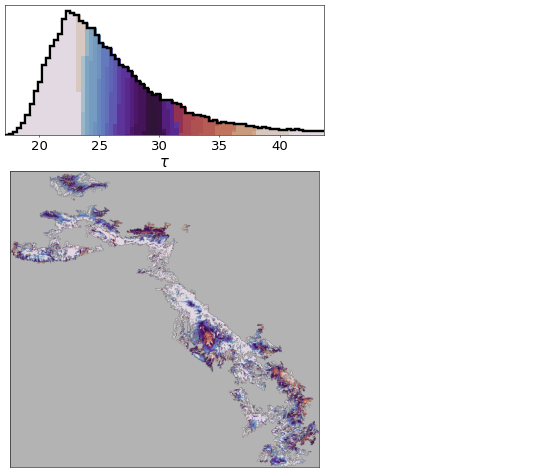
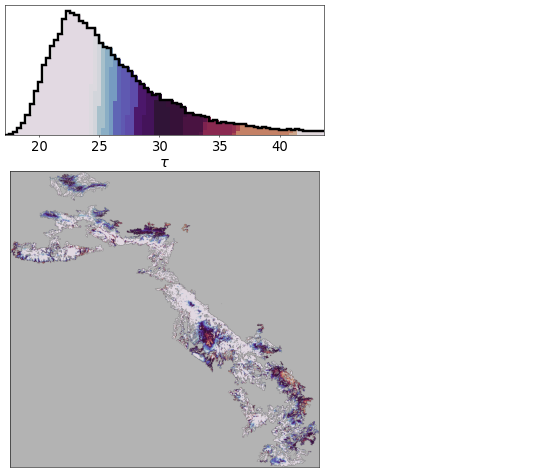
Streamline pprocessing; restore old robustness?
- In phase_updated and postprocess_updated, doing it this way speeds things up by reducing overhead costs of mpi
- Taking another sample of C, I'm seeing an issue with the 'fully global' robustness calculation. You can get weird optimal strategies for really low robustness requirements, namely very small ncell, because it can improve stability just a tiny bit.
- Also still need to check that ncell, slice_left combination is valid before computing robustness
- Robustness computation is really slow in update, may want to get everything in a single ndarray and use that as before.

diff --git a/sensitivity/postprocess_updated.py b/sensitivity/postprocess_updated.py
@@ -1,4 +1,3 @@
-from matplotlib.gridspec import GridSpec
 from tqdm import tqdm
 import numpy as np
 import pickle
@@ -55,59 +54,58 @@ for results_pre in results_pre_labs:
     if not overwrite_robustness: continue
     # Load things saved specific to these results
     set_globals(results_pre)
+    x_all = np.load(fn_prefix + '/x_all.npy')
+    meta_metric_all = np.load(fn_prefix + '/meta_metric_all.npy')
+    meta_metric_all = meta_metric_all[:,0]
 
-    # Collect <metric> across all state variables and uncertainty parameterizations
-    shape = [len(eps_axes[key]) for key in eps_axes.keys()] 
-    shape += [len(C_vec), len(ncell_vec), len(slice_left_all)]
-    phase_full = np.ones((shape)) * np.nan
-    with h5py.File(fn_prefix + "phase_flat.h5", "r") as phase_handle:
-        for eps_params in product(*eps_axes.values()):
-            # Create a dictionary of indices along with values for the current combination
-            eps_params_dict = {
-                key: (index, np.round(value, 3)) for key, values in zip(eps_axes.keys(), eps_axes.values())
-                for index, value in enumerate(values) if value == eps_params[list(eps_axes.keys()).index(key)]
-            }
-
-            # Get phase slice at this epsilon parameterization
-            data_key = f"{eps_params_dict['mu_tau'][1]}/{eps_params_dict['sigm_tau'][1]}/"
-            data_key += f"{eps_params_dict['mu_tauc'][1]}/{eps_params_dict['sigm_tauc'][1]}/phase"
-            phase_slice = phase_handle[data_key][:]
-
-            # Add them to collective phase_all
-            eps_indices = [val[0] for val in eps_params_dict.values()]
-            index_tuple = tuple(eps_indices) + (slice(None), slice(None), slice(None))
-            phase_full[index_tuple] = phase_slice
-    # Save full phase matrix to file
-    np.save(fn_prefix + "phase_full.npy", phase_full)
-
-    rob_thresh_vec = np.linspace(min(phase_full.flatten()), max(phase_full.flatten()), 100)
+    # Define range of threshold values for metapop metric
+    rob_thresh_vec = np.linspace(min(meta_metric_all), max(meta_metric_all), 100)
     np.save(fn_prefix + "rob_thresh_vec.npy", rob_thresh_vec)
-    allrob = np.ones((rob_thresh_vec.size, C_vec.size, ncell_vec.size, slice_left_all.size)) * np.nan
-    maxrob = np.ones((len(rob_thresh_vec), len(C_vec))) * np.nan
-    argmaxrob = np.ones((len(rob_thresh_vec), len(C_vec), 2)) * np.nan
+
+    # Calculate the robustness at each threshold and strategy combination
+    allrob = np.full((rob_thresh_vec.size, C_vec.size, ncell_vec.size, slice_left_all.size), np.nan)
     tot_eps_samples = np.cumprod([len(axis) for axis in eps_axes.values()])[-1]
-    zero_eps_i = [np.argwhere(ax == 0)[0][0] for ax in eps_axes.values()]
-    for (thresh_i, thresh), (C_i, C) in product(enumerate(rob_thresh_vec), 
-                                                enumerate(C_vec)):
-        rob_slice = np.ones((len(ncell_vec), len(slice_left_all))) * np.nan
-        for (ncell_i, ncell), (sl_i, sl) in product(enumerate(ncell_vec),
-                                                    enumerate(slice_left_all)):
-            # First, check that this result is feasible with zero uncertainty
-            # Skip and keep at nan if not feasible
-            metric_zero_eps = phase_full[tuple(zero_eps_i + [C_i, ncell_i, sl_i])]
-            #if np.isnan(metric_zero_eps) or (metric_zero_eps < thresh): continue
-            if np.isnan(metric_zero_eps): continue
-            # Now, get the robstness at this (C,ncell,slice_left) coordinate and store
-            counts = np.count_nonzero(phase_full[..., C_i, ncell_i, sl_i] >= thresh)
+    for (thresh_i, thresh), (C_i, C), (ncell_i, ncell), (sl_i, slice_left) in product(
+                                                                                enumerate(rob_thresh_vec), 
+                                                                                enumerate(C_vec),
+                                                                                enumerate(ncell_vec), 
+                                                                                enumerate(slice_left_all)
+                                                                                ):
+            #if slice_left > (ncell_tot - ncell - 1): continue
+
+            # Filter for this parameter combination
+            filt = (x_all[:,0] == C) & (x_all[:,1] == ncell) & (x_all[:,2] == slice_left)
+
+            # Skip if paramter comb is invalid (happens if slice_left too large given ncell)
+            if np.count_nonzero(filt) < 1: continue
+
+            # Skip if threshold not met under no uncertainty
+            zeroeps_filt = filt & (np.all(x_all[:, 3:] == 0, axis=1))
+            if np.count_nonzero(zeroeps_filt) < 1:
+                print(C, ncell, slice_left)
+                print(np.count_nonzero(filt))
+                import sys; sys.exit()
+            #print(meta_metric_all[zeroeps_filt])
+            if meta_metric_all[zeroeps_filt] < thresh: continue
+            
+            # Calculate and store the robustness
+            counts = np.count_nonzero(meta_metric_all[filt] >= thresh)
             robustness = counts / tot_eps_samples
-            rob_slice[ncell_i, sl_i] = robustness
-        allrob[thresh_i, C_i] = rob_slice
+            allrob[thresh_i, C_i, ncell_i, sl_i] = robustness
+        
+    # Now find the strategies which optimize robustness per threshold, C combination
+    maxrob = np.full((len(rob_thresh_vec), len(C_vec)), np.nan)
+    argmaxrob = np.full((len(rob_thresh_vec), len(C_vec), 2), np.nan)
+    for (thresh_i, thresh), (C_i, C) in product(enumerate(rob_thresh_vec), enumerate(C_vec)):
+        rob_slice = allrob[thresh_i, C_i]
         if np.any(~np.isnan(rob_slice)):
             # Store the max robustness at this (thresh, C) coordinate
             maxrob[thresh_i, C_i] = np.nanmax(rob_slice)
+            
             # Also store the optimal param indices
             optimal_param_i = np.unravel_index(np.nanargmax(rob_slice, axis=None), rob_slice.shape)
             argmaxrob[thresh_i, C_i] = optimal_param_i
+
     # Save maxrob and argmaxrob to files
     np.save(fn_prefix + "maxrob.npy", maxrob)
     np.save(fn_prefix + "argmaxrob.npy", argmaxrob)

diff --git a/sensitivity/phase_updated.py b/sensitivity/phase_updated.py
@@ -1,0 +1,164 @@
+import numpy as np
+from project import Phase
+import torch
+import sys
+from matplotlib import pyplot as plt
+from mpi4py import MPI
+from tqdm import tqdm
+import timeit
+from itertools import product
+import os
+import h5py
+
+constants = {}
+constants['progress'] = False
+constants['c'] = 1.42
+constants['Aeff'] = 7.29
+constants['t_final'] = 300
+constants['sim_method'] = 'discrete'
+constants['ul_coord'] = [1500, 2800]
+constants['lr_coord'] = [2723, 3905]
+'''Should just set this to min tau_vec I think, which it basically already is'''
+constants['min_tau'] = 2
+constants['A_cell'] = 270**2 / 1e6 #km^2
+constants['ncell_min'] = 2_500
+constants['root'] = 0 #For mpi
+constants.update({'final_max_tau': np.nan})
+constants['meta_metric'] = 'gte_thresh'
+constants.update({'metric': 'lambda_s'})
+constants.update({'tauc_method': 'flat'})
+constants.update({'overwrite_metrics': False}) 
+constants['overwrite_results'] = True
+
+constants['plotting_tau_bw_ratio'] = 30 #For binning initial tau (with uncertainty) in phase slice plots
+
+# Get list of samples for each parameter
+constants['tauc_min_samples'] = np.array([5.0, 9.0])
+constants['ncell_samples'] = 15
+constants['slice_samples'] = 30
+#constants['ncell_samples'] = 5
+#constants['slice_samples'] = 10
+mu_tau_vec = np.arange(-9, 6, 3).astype(float)
+sigm_tau_vec = np.linspace(0, 10, 3)
+mu_tauc_vec = np.arange(-9, 6, 3).astype(float)
+sigm_tauc_vec = np.linspace(0, 10, 3)
+
+# Start timer to track runtime
+start_time = timeit.default_timer()
+
+# Define ordered list of parameter keys
+param_keys = ['C', 'ncell', 'slice_left',
+              'mu_tau', 'sigm_tau', 'mu_tauc', 'sigm_tauc']
+
+# Initialize "Phase" instance for processing samples
+pproc = Phase(**constants)
+pproc.initialize()
+pproc.init_strategy_variables()
+assert pproc.metric_exp_spl(pproc.min_tau) > 0
+
+if pproc.rank != pproc.root:
+    x_all = None
+else:
+    combs = product(pproc.C_vec,
+                    pproc.ncell_vec,
+                    pproc.slice_left_all,
+                    mu_tau_vec, sigm_tau_vec,
+                    mu_tauc_vec, sigm_tauc_vec)
+    num_combs = pproc.C_vec.size * pproc.ncell_vec.size * pproc.slice_left_all.size
+    num_combs = num_combs * mu_tau_vec.size * sigm_tau_vec.size * mu_tauc_vec.size * sigm_tauc_vec.size
+
+    x_all = np.full((num_combs, 7), np.nan)
+
+    for comb_i, comb in enumerate(combs):
+        # Check that slice is within allow range
+        if comb[2] > (pproc.slice_right_max - comb[1]): continue
+        x_all[comb_i, :] = comb
+
+    # Filter out any invalid param samples
+    nan_filt = np.any(np.isnan(x_all), axis=1)
+    x_all = x_all[~nan_filt, :]
+
+    # Shuffle to give all procs ~ the same amount of work
+    pproc.rng.shuffle(x_all)
+
+    # Save to file for reference in postprocessing
+    np.save(pproc.data_dir + '/x_all.npy', x_all)
+
+    # Save uncertainty axes to file
+    fn = pproc.data_dir + "/eps_axes.h5"
+    if (not os.path.isfile(fn)) or pproc.overwrite_results:
+        with h5py.File(fn, "w") as handle:
+            handle['mu_tau'] = mu_tau_vec
+            handle['sigm_tau'] = sigm_tau_vec
+            handle['mu_tauc'] = mu_tauc_vec
+            handle['sigm_tauc'] = sigm_tauc_vec
+
+# Broadcast samples to all ranks
+x_all = pproc.comm.bcast(x_all, root=pproc.root)
+
+# Set number of samples as instance attribute
+pproc.total_samples = x_all.shape[0]
+
+# Initialze stuff for parallel processing
+pproc.prep_rank_samples()
+if pproc.rank == pproc.root:
+    pbar = tqdm(total=pproc.rank_samples, position=0, dynamic_ncols=True, file=sys.stderr)
+
+# Generate metric values for training
+for rank_sample_i, x_i in enumerate(range(pproc.rank_start, pproc.rank_start + pproc.rank_samples)):
+    x = x_all[x_i] # Retrieve parameter sample
+    pproc.global_sample_i = x_i # Referenced in change_tau_expect
+
+    for i, param in enumerate(param_keys):
+        # Assign parameter values for this sample
+        if i in [1,2]:
+            _type = int
+        else:
+            _type = float
+        setattr(pproc, param, x[i].astype(_type))
+
+    # Reset tau values to baseline
+    pproc.tau_expect = pproc.tau_flat
+
+    # Add in uncertainty on baseline tau values
+    pproc.generate_eps_tau()
+    pproc.tau_expect = pproc.tau_flat + pproc.eps_tau
+
+    # Shift selected tau values (including uncertainty)
+    pproc.change_tau_expect(pproc.C, pproc.ncell, pproc.slice_left)
+
+    # Compute and store metric value
+    if pproc.meta_metric == 'gte_thresh':
+        pproc.calculate_metric_gte()
+    pproc.metric_expect_rank[rank_sample_i] = pproc.metric_expect
+
+    # Update progress (root only)
+    if (pproc.rank == pproc.root) and (rank_sample_i % 500 == 0):
+        pbar.update(500); print()
+
+# Collect data across ranks
+# Initialize data to store sample means across all ranks
+sendcounts = np.array(pproc.comm.gather(len(pproc.metric_expect_rank), root=pproc.root))
+if pproc.rank == pproc.root:
+    sampled_metric_expect = np.empty(sum(sendcounts))
+    sampled_xs_means = np.ones(sum(sendcounts)) * np.nan
+else:
+    sampled_metric_expect = None
+    sampled_xs_means = None
+# Now gather data
+pproc.comm.Gatherv(pproc.metric_expect_rank, sampled_metric_expect, root=pproc.root)
+pproc.comm.Gatherv(pproc.xs_means_rank, sampled_xs_means, root=pproc.root)
+
+if pproc.rank == pproc.root:
+    pbar.close()
+    print(f"{timeit.default_timer() - start_time} seconds")
+    meta_metric_all = sampled_metric_expect[:,None]
+    np.save(pproc.data_dir + '/meta_metric_all.npy', meta_metric_all)
+    #plt.hist(meta_metric_all);
+    #plt.show()
+
+    # Compute meta metric under no change for reference later
+    pproc.tau_expect = pproc.tau_flat
+    if pproc.meta_metric == 'gte_thresh':
+        pproc.calculate_metric_gte()
+    np.save(pproc.data_dir + '/meta_metric_nochange.npy', pproc.metric_expect)

diff --git a/sensitivity/makefig.py b/sensitivity/makefig.py
@@ -32,7 +32,7 @@ tau_vec = b_vec * gamma(1+1/c)
 tauc_methods = ["flat"]
 #C_i_vec = [0,1,2,4,6]
 #C_i_vec = [0,2,4,6]
-C_i_vec = [0]
+C_i_vec = [0,1]
 results_pre = 'gte_thresh' 
 #results_pre = 'distribution_avg' 
 
@@ -345,33 +345,37 @@ axes[0,1].set_xlim(15, xmax);
 ########
 
 #### RESULTS UNDER ZERO UNCERTAINTY ####
-width = 0.875
+# Load all results
 set_globals(results_pre)
-with h5py.File(fn_prefix + "/phase_flat.h5", "r") as phase_handle:
-    data_key = "0.0/0.0/0.0/0.0/phase"
-    phase_slice_zeroeps = phase_handle[data_key][:]
-    nochange_zeroeps = phase_handle["0.0/0.0/0.0/0.0/metric_nochange"][()]
+x_all = np.load(fn_prefix + '/x_all.npy')
+meta_metric_all = np.load(fn_prefix + '/meta_metric_all.npy')
+meta_metric_all = meta_metric_all[:,0]
+meta_metric_nochange = float(np.load(fn_prefix + 'meta_metric_nochange.npy'))
 
 plot_vec = np.ones_like(C_vec) * np.nan
 c_vec = np.ones_like(C_vec) * np.nan
 for C_i, C in enumerate(C_vec):
-    argmax = np.nanargmax(phase_slice_zeroeps[C_i, :, :])
-    optimal_param_i = np.unravel_index(argmax, phase_slice_zeroeps.shape[1:])
-    plot_vec[C_i] = phase_slice_zeroeps[C_i, optimal_param_i[0], optimal_param_i[1]]
-    c_vec[C_i] = ncell_vec[optimal_param_i[0]]
+    #argmax = np.nanargmax(phase_slice_zeroeps[C_i, :, :])
+    #optimal_param_i = np.unravel_index(argmax, phase_slice_zeroeps.shape[1:])
+    #plot_vec[C_i] = phase_slice_zeroeps[C_i, optimal_param_i[0], optimal_param_i[1]]
+    #c_vec[C_i] = ncell_vec[optimal_param_i[0]]
+    zeroeps_filt = np.all(x_all[:, 3:] == 0, axis=1)
+    _filt = zeroeps_filt & (x_all[:,0] == C)
+    argmax = np.nanargmax(meta_metric_all[_filt])
+    plot_vec[C_i] = meta_metric_all[_filt][argmax]
+    c_vec[C_i] = x_all[_filt,:][argmax][1]
 c_vec = c_vec / ncell_tot
-print((plot_vec - nochange_zeroeps) / c_vec) 
-print((plot_vec - nochange_zeroeps) / (C_vec/ncell_tot)) 
 
+width = 0.875
 vmin = 0; vmax = 1
 norm = colors.Normalize(vmin=vmin, vmax=vmax)
 colormap = copy.copy(cm.RdPu_r)
 sm = cm.ScalarMappable(cmap=colormap, norm=norm)
 bar_colors = colormap(norm(c_vec))
 bar = axes[1,0].bar(np.arange(C_vec.size), plot_vec, color=bar_colors, width=width)
-axes[1,0].set_ylim(nochange_zeroeps, 1.02*np.max(plot_vec))
+axes[1,0].set_ylim(meta_metric_nochange, 1.02*np.max(plot_vec))
 yticks = np.arange(0., 1.2, 0.2)
-axes[1,0].set_yticks(yticks[yticks >= nochange_zeroeps])
+axes[1,0].set_yticks(yticks[yticks >= meta_metric_nochange])
 axes[1,0].set_ylabel(fr"maximum {metric_lab}")
 xtick_spacing = 2
 #xticks = np.arange(1, len(C_vec)+1, xtick_spacing)

diff --git a/sensitivity/phase.py b/sensitivity/phase.py
@@ -29,7 +29,7 @@ constants['ncell_samples'] = 15
 constants['slice_samples'] = 30
 # Use the minimum tauc values (i.e. when spread over all cells) to determine C values
 #constants['tauc_min_samples'] = np.arange(1, 17, 2) 
-constants['tauc_min_samples'] = np.array([9.0]) 
+constants['tauc_min_samples'] = np.array([5.0, 9.0]) 
 constants['root'] = 0 #For mpi
 constants.update({'final_max_tau': np.nan})
 constants['overwrite_results'] = True
@@ -73,9 +73,11 @@ with tqdm(total=total_computations) as pbar:
 
             # Init a phase processor based on above constants
             pproc = Phase(**constants) 
-            if pproc.rank == pproc.root: print(f"on {tauc_method} tauc_method")
             pproc.initialize()
             pproc.init_strategy_variables()
+            if pproc.rank == pproc.root: 
+                print(f"on {tauc_method} tauc_method")
+                total_time = 0
 
             # Save uncertainty axes to file
             if (pproc.rank == pproc.root):
@@ -112,9 +114,13 @@ with tqdm(total=total_computations) as pbar:
                         elapsed = timeit.default_timer() - start_time
                         print('{} seconds to run metric {}'.format(elapsed, metric))
                         pbar.update(1)
+                        total_time += elapsed
                     # Save phase matrix at this uncertainty parameterization
                     pproc.store_phase()
                     ## Plot slices of phase matricies
                     #for C in pproc.C_vec:
                     #    pproc.plot_phase_slice(C)
                     #    pproc.plot_phase_slice(C, xs=True)
+
+if pproc.rank == pproc.root:
+    print(f'{total_time} seconds')

diff --git a/sensitivity/project.py b/sensitivity/project.py
@@ -652,9 +652,10 @@ class Phase:
         # Determine the number of samples to parallelize based on some instance variable
         if hasattr(self, 'num_train'):
             # Handle case where we're generating training data for NN
-            # Or parallelizing more efficiently
             num_samples = self.num_train 
         #if hasattr(self, 'slice_left_all'):
+        elif hasattr(self, 'total_samples'):
+            num_samples = self.total_samples
         else:
             # Handle case where we're doing brute force calculations
             self.slice_left_max = self.slice_right_max - ncell #slice needs to fit
